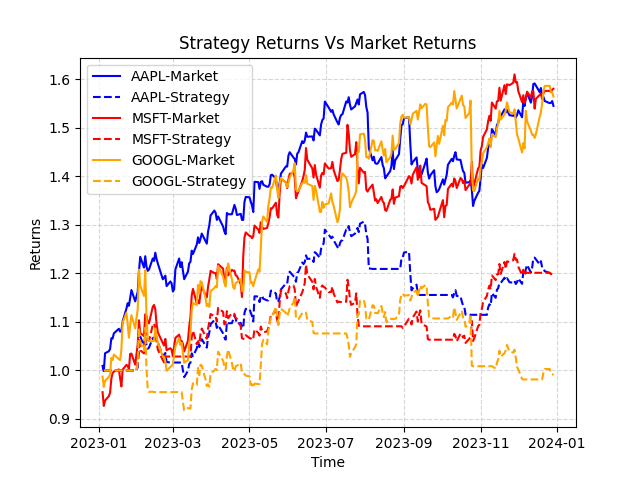
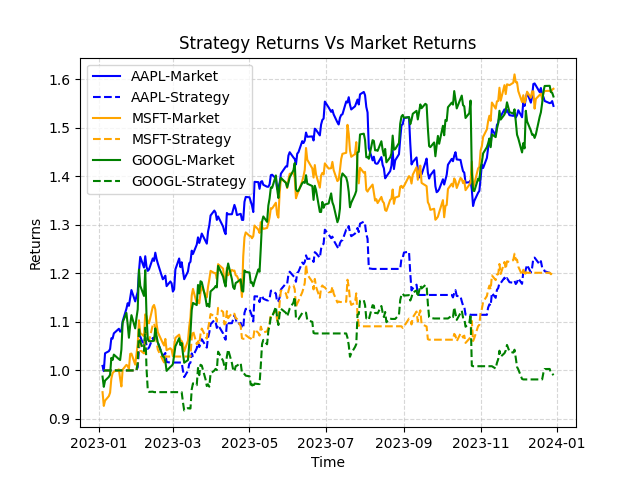
Added more comments

diff --git a/main.py b/main.py
@@ -17,7 +17,7 @@ for short_window,long_window in windows:
 
     plt.figure(figsize=(10, 5))
 
-    #Loops through the different assets
+    #Loops through the different assets to load its specific stock data
 
     for asset in assets:
 
@@ -59,7 +59,7 @@ for short_window,long_window in windows:
 
     plt.figure(figsize=(10, 5))
 
-    #Loops through different assets
+    #Loops through different assets to load its specific stock data
 
     for asset in assets:
 
@@ -83,19 +83,30 @@ for short_window,long_window in windows:
     plt.grid(True, linestyle="--", alpha=0.5)
     plt.show()
 
-    colours=["blue", "red", "orange"]
+    #Forms a list of colours to loop over for different colours of lines for different assets in the graph for strategy return values vs market return values
+
+    colours=["blue", "orange", "green"]
+
+    #Cycles i over the indexes formed by the function enumerate() so that each asset has a specific colour of line in the graph and cycles asset over the different assets in assets to plot the different return data for the different assets
 
     for i, asset in enumerate(assets):
+
+        #Assigned variables are ran through the different defined functions
 
         data=load_data(asset)
         data=create_signals(data, short_window, long_window)
         data=backtesting(data)
-        sharpe_ratio, annualised_volatility, max_drawdown=calculate_metrics(data)
+
+        #Uses the value of i to assign the variable colour to the colour in colours at index i so its corresponding asset has the right colour line in the graph
 
         colour=colours[i]
 
+        #Plots the strategy return values vs the market return values with the different assets with its corresponding colours and the market and strategy return values having different style of lines to be able to differentiate accordingly
+
         plt.plot(data["Cumulative_Market"], color=colour, linestyle="-", label=f"{asset}-Market")
         plt.plot(data["Cumulative_Strategy"], color=colour, linestyle="--", label=f"{asset}-Strategy")
+
+    #Adds legend, axis labels, title, gridlines to graph and returns the graph
 
     plt.legend()
     plt.xlabel("Time")
